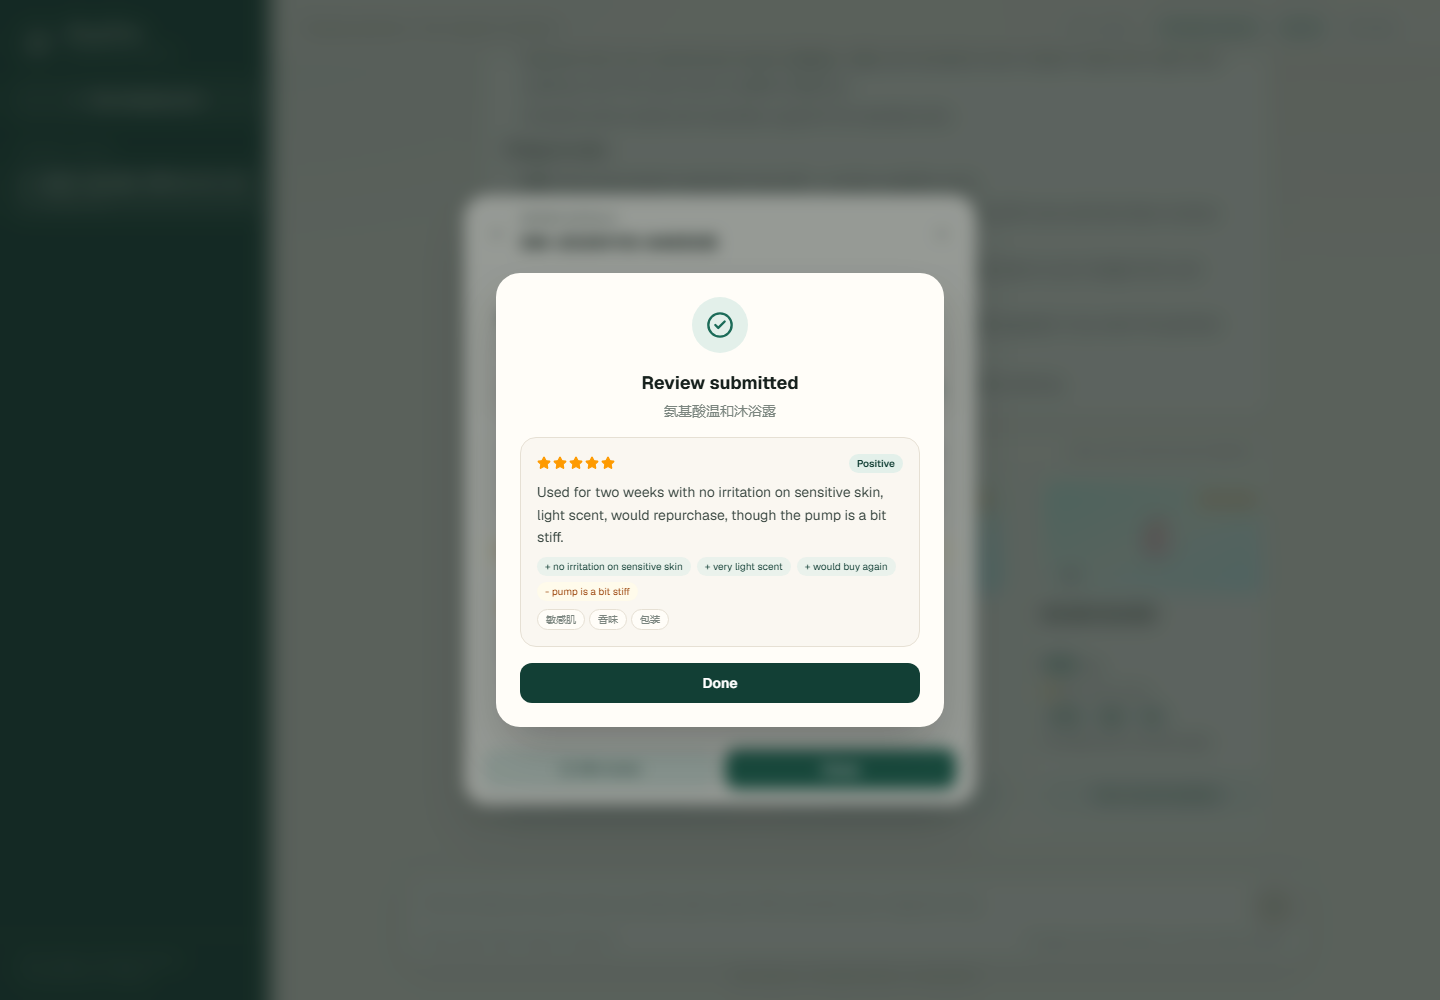
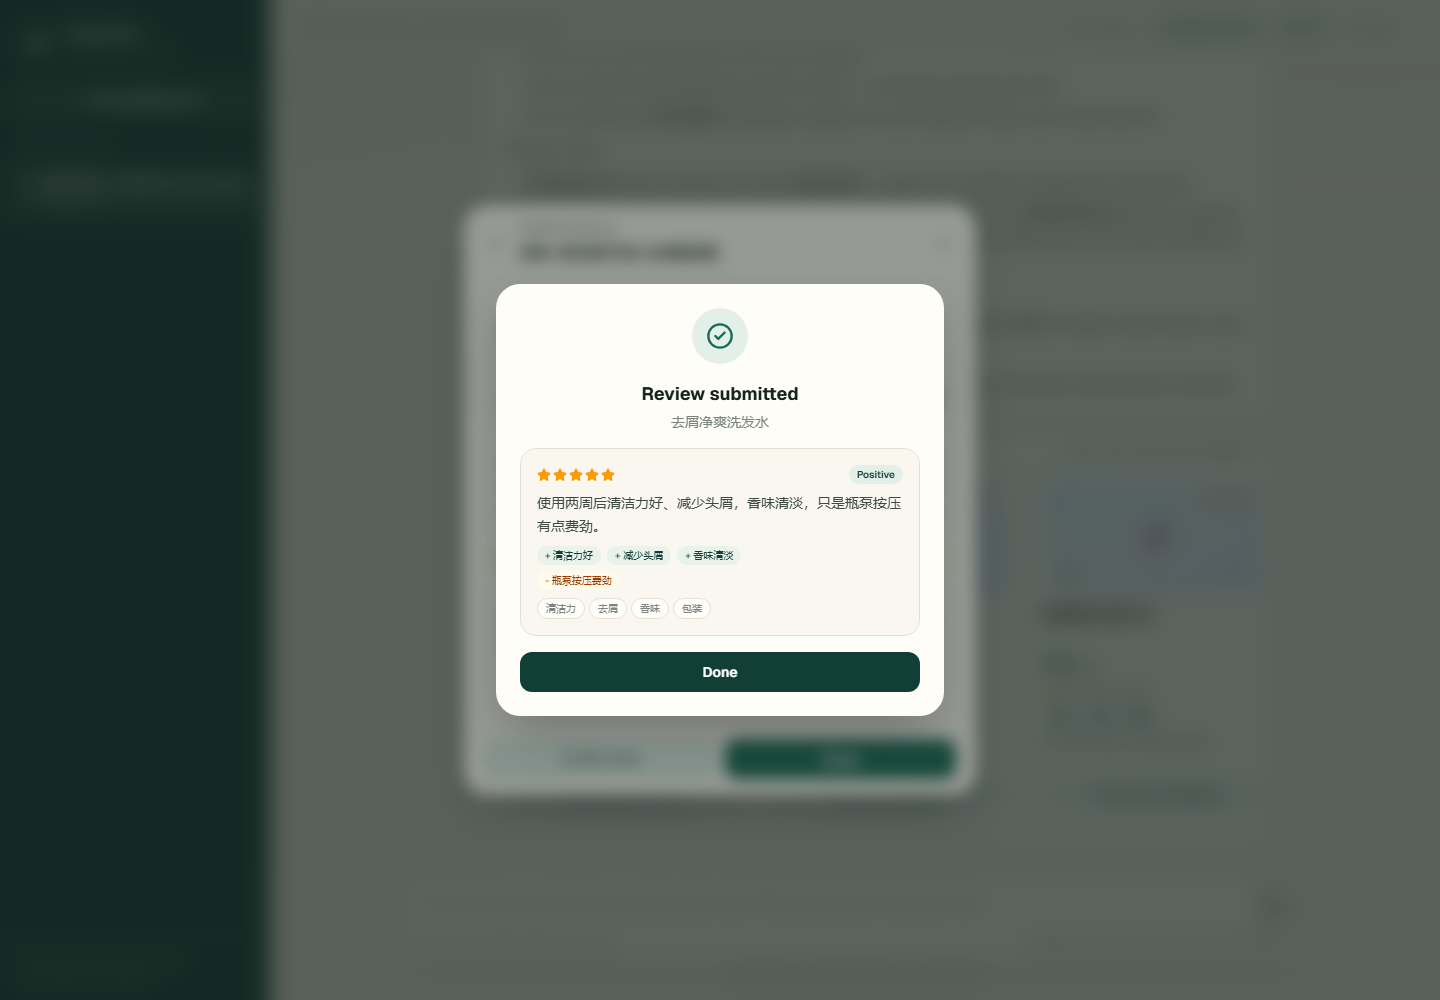
Update demo to anti-dandruff shampoo and fix table rendering

diff --git a/frontend/src/components/markdown.tsx b/frontend/src/components/markdown.tsx
@@ -1,9 +1,35 @@
 import ReactMarkdown from "react-markdown";
 import remarkGfm from "remark-gfm";
+function normalizeMarkdownTables(text: string): string {
+    const lines = text.replace(/\|\s+\|(?=:?-{3,})/g, "|\n|").split("\n");
+    const isSeparator = (line: string | undefined) => !!line && /^\s*\|?\s*:?-{3,}/.test(line);
+    const output: string[] = [];
+    for (let index = 0; index < lines.length; index += 1) {
+        const line = lines[index];
+        const next = lines[index + 1];
+        const isHeader = /^\s*\|.*\|\s*$/.test(line) && !isSeparator(line);
+        if (isHeader && isSeparator(next)) {
+            const headerCells = Math.max(1, line.split("|").slice(1, -1).length);
+            const separatorCells = (next ?? "")
+                .split("|")
+                .slice(1, -1)
+                .map((cell) => cell.trim())
+                .filter(Boolean).length;
+            if (separatorCells !== headerCells) {
+                lines[index + 1] = "|" + "---|".repeat(headerCells);
+            }
+            if (output.length && output[output.length - 1].trim() !== "") {
+                output.push("");
+            }
+        }
+        output.push(line);
+    }
+    return output.join("\n");
+}
 export function Markdown({ children }: {
     children: string;
 }) {
     return (<div className="markdown">
-      <ReactMarkdown remarkPlugins={[remarkGfm]}>{children}</ReactMarkdown>
+      <ReactMarkdown remarkPlugins={[remarkGfm]}>{normalizeMarkdownTables(children)}</ReactMarkdown>
     </div>);
 }

diff --git a/frontend/src/app/page.tsx b/frontend/src/app/page.tsx
@@ -13,7 +13,7 @@ import { buildHistoryResponse } from "@/lib/history";
 import type { ChatResponse, PurchaseProposal, ScoredProduct, SessionSummary, ShoppingIntent, StreamStage, UiMessage, } from "@/lib/types";
 const USER_ID = "demo-user";
 const DEMO_PROMPTS = [
-    "我想买一瓶沐浴露，预算 100 以内，敏感肌，最好没有香味",
+    "我想买洗发水，预算 100 以内，可以去除头屑",
     "油头，想要控油蓬松的洗发水，评分 4.5 以上",
     "给敏感肌找一款 150 元以内的修护面霜",
     "想买防晒，SPF50，清爽不油腻，预算 120",

diff --git a/backend/app/agent/prompts.py b/backend/app/agent/prompts.py
@@ -49,7 +49,7 @@ RECOMMENDATION_SYSTEM = """You are ShopWise's shopping advisor.
 You receive the user's preferences, the current intent, and ranked products with scores, reasons, and warnings.
 
 Write the recommendation in English. Requirements:
-1. Start with a Markdown table comparing the top 3 products: product, price, rating, review count, and key match.
+1. Start with a Markdown table comparing the top 3 products: product, price, rating, review count, and key match. Put a blank line before the table and keep the header row and |---| separator on separate lines.
 2. Then write "Top pick: <product name>" with 2-4 reasons grounded in the supplied data.
 3. Then write "Things to note" and cite warnings or unmatched preferences.
 4. If any constraints were relaxed, explain them first.
